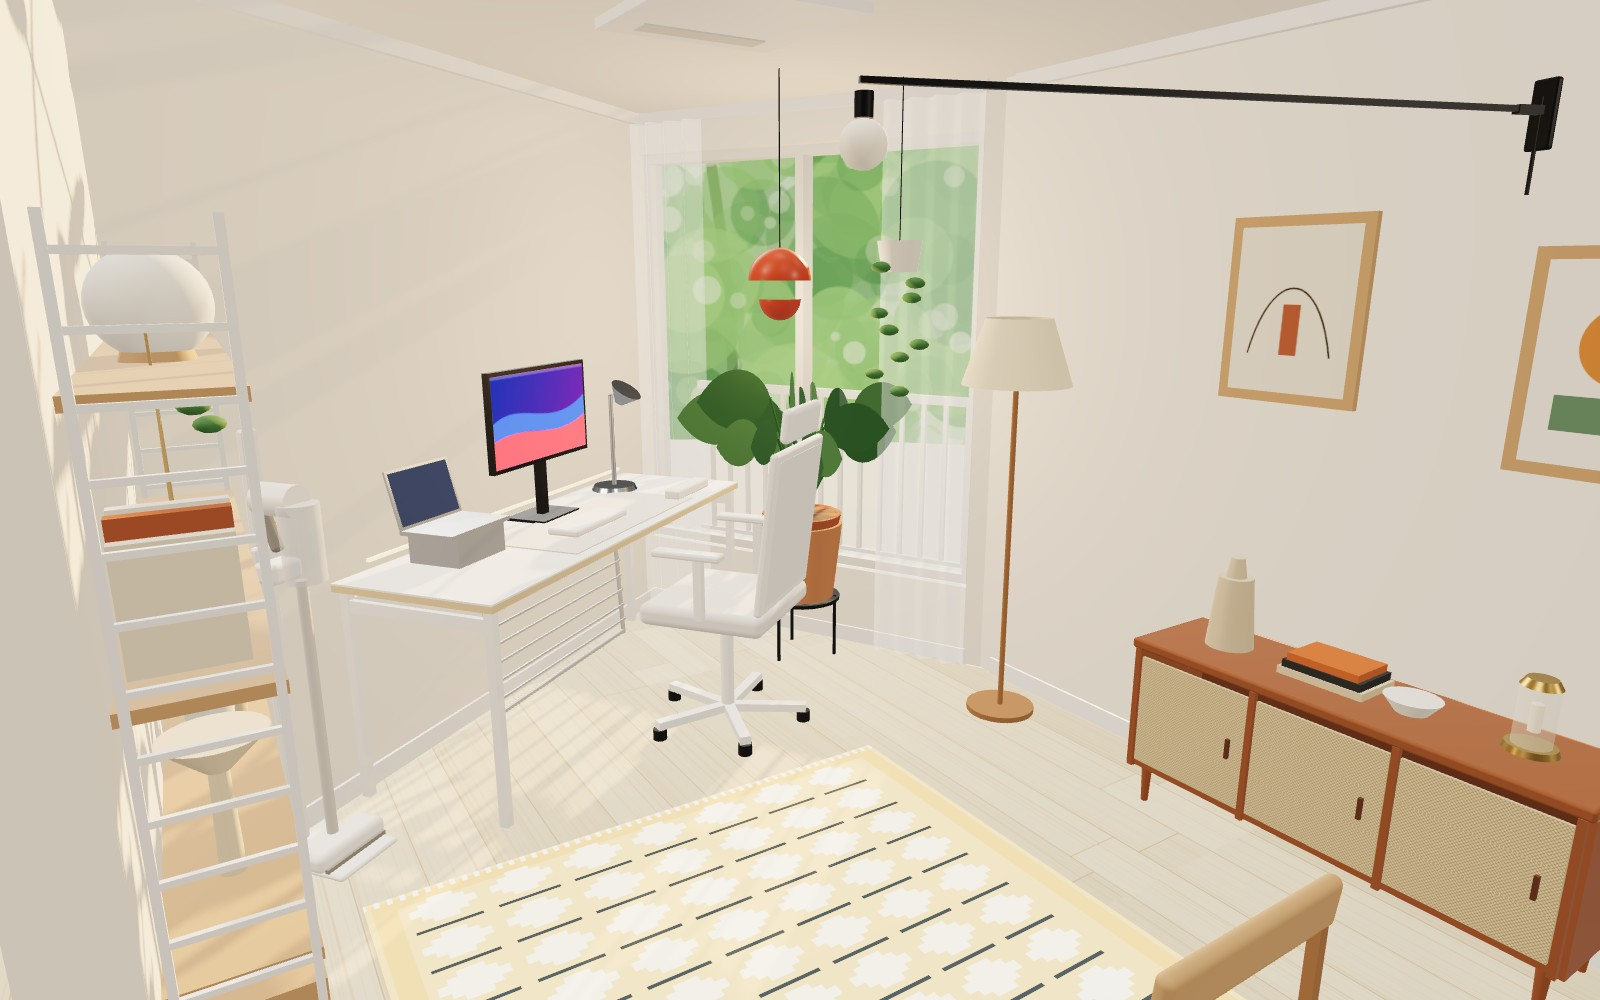
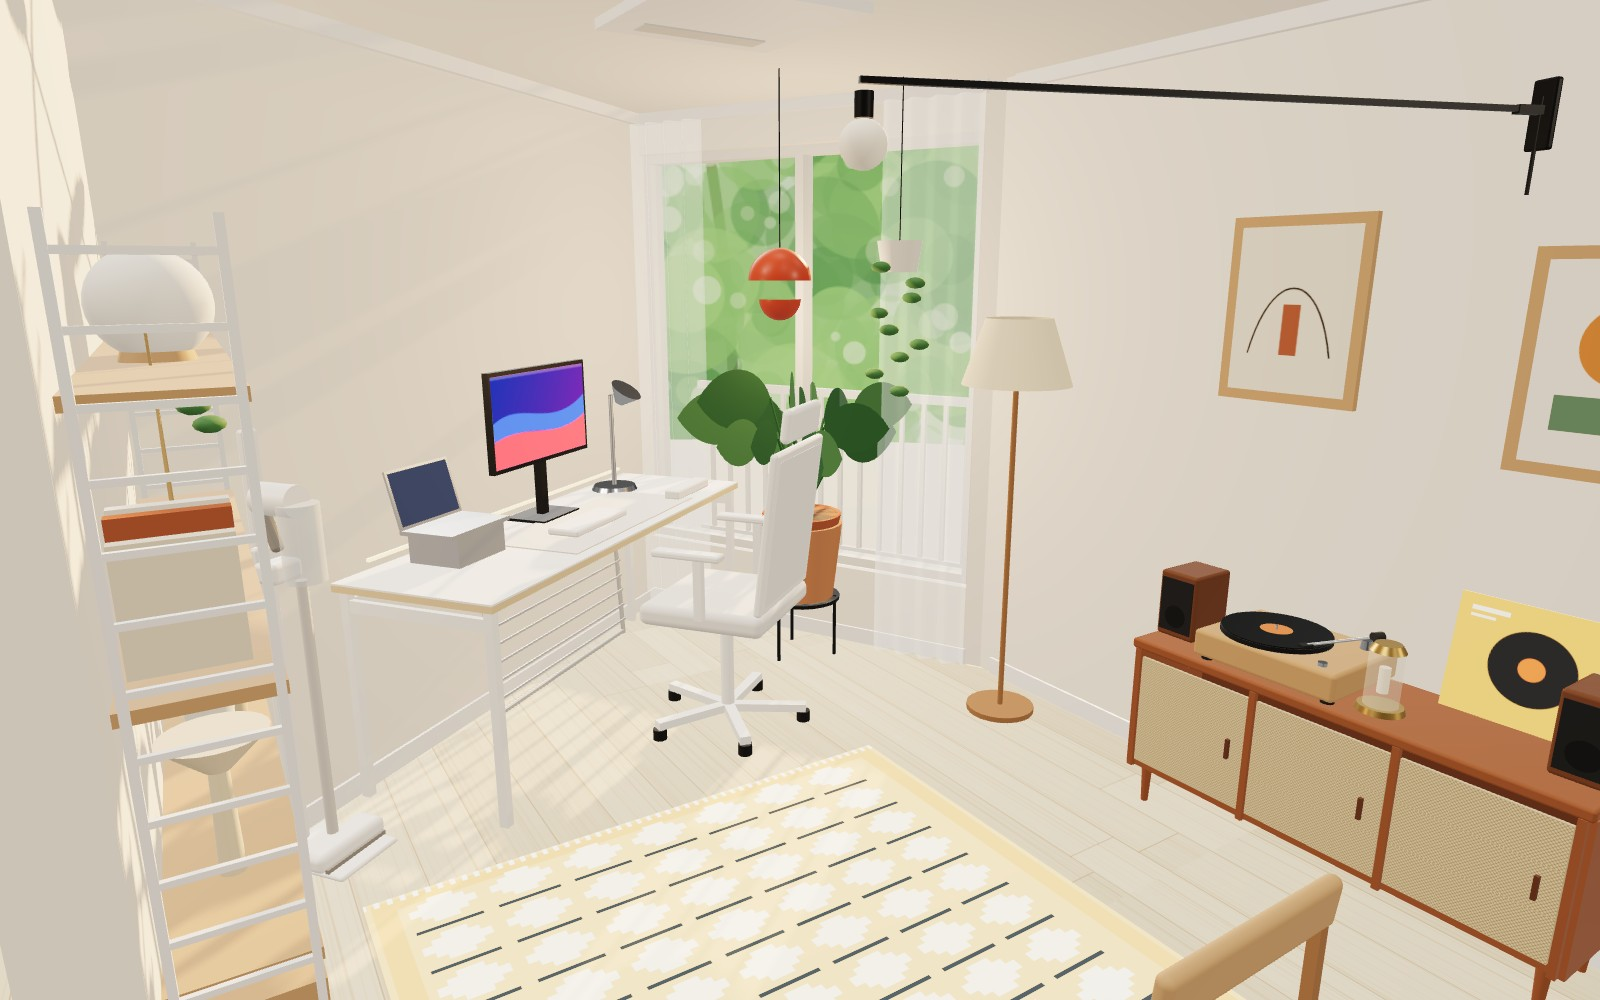
LP player on the sideboard; easier zoom/pan (zoom to cursor, double-click to fly, WASD, on-screen buttons); auto-lower walls blocking side views

Changed region(s): [[0.7188, 0.558, 1.0, 0.806]]

diff --git a/gallery.html b/gallery.html
@@ -10,7 +10,7 @@
 <figure><figcaption>주방 · 인덕션 아래 드럼세탁기</figcaption><img src="images/8_kitchen.jpg"></figure>
 <figure><figcaption>침실 · 저상 매트리스 침대 (3cm 깔판 + 흰 커버 + 루프 러그)</figcaption><img src="images/6_bed.jpg"></figure>
 <figure><figcaption>빨래 모드 · 침실 창가 건조대 + 구석 제습기 + 서큘레이터 (문 닫고 말리기)</figcaption><img src="images/11_laundry.jpg"></figure>
-<figure><figcaption>거실 · 밤 조명 (롱암 벽등 · 무선 유리 램프 · 티크 사이드보드)</figcaption><img src="images/7_night.jpg"></figure>
+<figure><figcaption>거실 · 밤 조명 (롱암 벽등 · 무선 유리 램프 · 티크 사이드보드 위 LP 플레이어)</figcaption><img src="images/7_night.jpg"></figure>
 <figure><figcaption>좌탁·방석 뺀 거실 (러그는 그대로)</figcaption><img src="images/9_empty_living.jpg"></figure>
 <figure><figcaption>좌탁·방석 뺀 전체</figcaption><img src="images/10_empty_all.jpg"></figure>
 </body></html>
